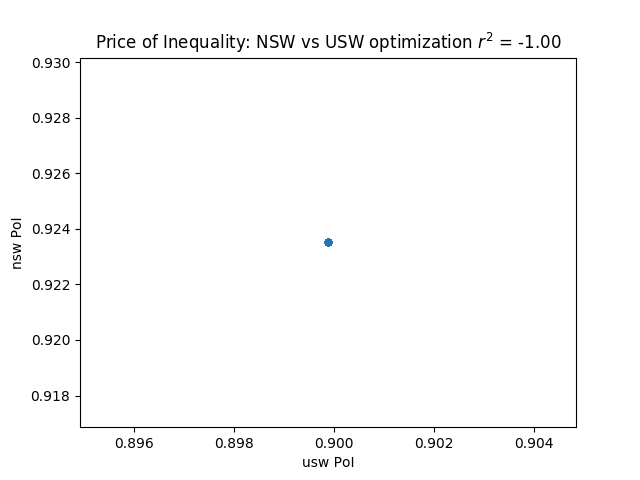
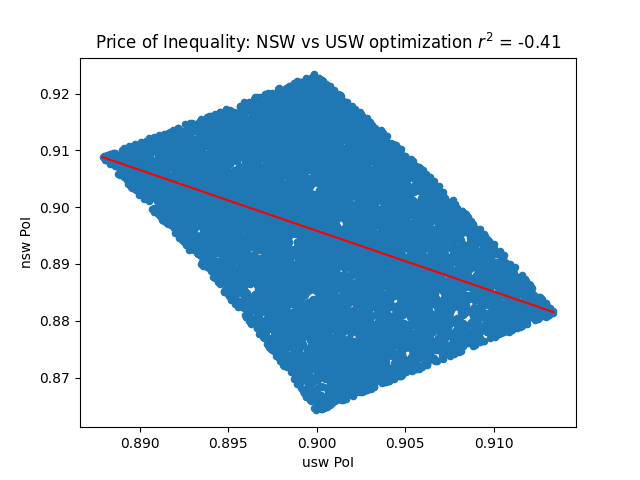
it's been too long since I used the repo

diff --git a/no-money/main.py b/no-money/main.py
@@ -11,123 +11,17 @@ from sklearn.preprocessing import normalize
 from tabulate import tabulate
 from random import uniform
 from scipy import stats
+import experiments
 
 
 def main():
 	np.set_printoptions(suppress=True)
 	#holder vars
-	player_dict = {}
-	data = {'inequality tolerance': [], 'utilities': [],\
-	'usw alloc u': [], 'usw alloc v': [], \
-	'nsw alloc u': [], 'nsw alloc v': [], \
-	'maxmin alloc u': [], 'maxmin alloc v': [], \
-	'usw u': [], 'usw v': [], \
-	'nsw u': [], 'nsw v': [], \
-	'maxmin u': [], 'maxmin v': [], \
-	'usw PoI' : [], 'nsw PoI' : [], 'maxmin PoI' : [],
-	'usw xstar FS inequality' : [], 'nsw xstar FS inequality' : [], 'maxmin xstar FS inequality' : [],
-	'usw xalpha FS inequality' : [], 'nsw xalpha FS inequality' : [], 'maxmin xalpha FS inequality' : []
-	}
-
-
-	num_reps = 100
-
-	#global vars
-	n = 3 #number of agents
-	g = 3 #number of goods
-	alpha = [0.2, 0.2, 0.2] #value for inequality tolerance.
-	util_type = 'linear'
-
-	for _ in range(num_reps):
-
-		data['inequality tolerance'].append(alpha)
-
-		# different variations of correlating preferences
-		#eps = 2. - np.sqrt(2)
-		#init_u = [[0.5, 0.5, 0.], [(1. -eps) / 2, (1. -eps) / 2, eps]]
-		#eps = 0.05
-		#init_u = list(normalize([[1., 1., uniform(0, eps)], [1 - eps + uniform(-eps, eps), 1. - eps + uniform(-eps, eps), 2. * eps + uniform(-eps, eps)]], axis=1, norm='l1'))
-		
-		# example studied in meeting
-		eps = 0.05
-		init_u = [[1. - eps, eps, 0.], [0.5 + eps, 0, 0.5 - eps], [0., 0.5, 0.5]]
-		
-
-		# uniformly random utilities
-		#init_u = list(normalize(np.random.rand(n,g), axis=1, norm='l1'))
-		data['utilities'].append([init_u])
-
-		#initialize players
-		for player in range(n):
-			player_dict[player] = players.Player(player, init_u[player], alpha[player], util_type, g, n, init_u) #random u_ij in [0,1] parameterizing the utility and c_i constant
-
-		# standard allocation setting
-		alloc = mechs.usw(player_dict, g)
-		data['usw alloc u'].append([alloc])
-		data['usw xstar FS inequality'].append(inequality.FehrSchmidtIneq(player_dict, alloc))
-		alloc_nsw = mechs.nsw_ceei(player_dict, g)
-		data['nsw alloc u'].append([alloc_nsw])
-		data['nsw xstar FS inequality'].append(inequality.FehrSchmidtIneq(player_dict, alloc_nsw))
-		alloc_maxmin = mechs.maxmin_u(player_dict, g)
-		data['maxmin alloc u'].append([alloc_maxmin])
-		data['maxmin xstar FS inequality'].append(inequality.FehrSchmidtIneq(player_dict, alloc_maxmin))
-
-		
-		# allocations with social preferences
-		v_alloc = mechs.usw_v(player_dict, g)
-		v_alloc_nsw = mechs.nsw_ceei_v(player_dict, g)
-		v_alloc_maxmin = mechs.maxmin_v(player_dict, g)
-		data['usw alloc v'].append([v_alloc])
-		data['usw xalpha FS inequality'].append(inequality.FehrSchmidtIneq(player_dict, v_alloc))
-		data['nsw alloc v'].append([v_alloc_nsw])
-		data['nsw xalpha FS inequality'].append(inequality.FehrSchmidtIneq(player_dict, v_alloc_nsw))
-		data['maxmin alloc v'].append([v_alloc_maxmin])
-		data['maxmin xalpha FS inequality'].append(inequality.FehrSchmidtIneq(player_dict, v_alloc_maxmin))
-		
-
-	    #compute social welfare and price of inequality
-		usw_u = utils.utilitariansocialwelfare(player_dict, alloc)
-		nsw_u = utils.nashsocialwelfare(player_dict, alloc_nsw)
-		maxminsw_u = utils.rawlsiansocialwelfare(player_dict, alloc_maxmin)
-		data['usw u'].append(usw_u)
-		data['nsw u'].append(nsw_u)
-		data['maxmin u'].append(maxminsw_u)
-
-		usw_v = utils.utilitariansocialwelfare(player_dict, v_alloc)
-		nsw_v = utils.nashsocialwelfare(player_dict, v_alloc_nsw)
-		maxminsw_v = utils.rawlsiansocialwelfare(player_dict, v_alloc_maxmin)
-		data['usw v'].append(usw_v)
-		data['nsw v'].append(nsw_v)
-		data['maxmin v'].append(maxminsw_v)
-
-		data['usw PoI'].append(float(usw_v / usw_u))
-		data['nsw PoI'].append(float(nsw_v / nsw_u))
-		data['maxmin PoI'].append(float(maxminsw_v / maxminsw_u))
-
-
-	df = pd.DataFrame(data=data)
-
-
-	print(tabulate(df, headers = 'keys', tablefmt = 'psql'))
-
-	from os.path import exists
-	filename = 'simulation_results_demo.csv'
-	if exists(filename) == False:
-		df.to_csv(filename,index=False)
-	else:
-		df.to_csv(filename, mode='a', index=False, header=False)
-
-
-
-
-	slope, intercept, r_value, p_value, std_err = stats.linregress(df['usw PoI'], df['nsw PoI'])
-	utils.spPoI(df, 'usw PoI', 'nsw PoI', 'Price of Inequality: NSW vs USW optimization', 'figs/PoI_NSW_USW_corrprefs_3players_wr2.png', rsq=r_value, slope=slope, yint=intercept)
-	#utils.spPoI(df, 'usw PoI', 'maxmin PoI', 'Price of Inequality: Max-Min vs USW optimization', 'figs/PoI_maxmin_USW_uniformprefs_4players.png')
-	#utils.spPoI(df, 'nsw PoI', 'maxmin PoI', 'Price of Inequality: Max-Min vs NSW optimization', 'figs/PoI_maxmin_NSW_uniformprefs.png')
-
-	#utils.boxplot(df, ['usw PoI', 'nsw PoI', 'maxmin PoI'],plottitle='Price of Inequalities: Uniformly random Preferences', filename='figs/boxplot_PoIs_uniformprefs.png')
-
-
+	n = 10
+	g = n
+	#alphas = np.linspace(0,0.5, num=200)
+	alpha = 0.3
+	experiments.effect_prop_averse(n,g, alpha, save=False)
 
 
 if __name__ == "__main__":

diff --git a/no-money/mechs.py b/no-money/mechs.py
@@ -101,6 +101,19 @@ def usw_v(player_dict, num_goods):
 	return alloc.value
 
 
+def usw_v_cm(player_dict, num_goods): 
+	num_agents = len(list(player_dict.keys()))
+	alloc = cp.Variable((num_agents, num_goods))
+	c = np.min([player_dict[key].c for key in player_dict.keys()])
+	maxprob = cp.Maximize(cp.sum([player_dict[key].v_cp(alloc) for i, key in enumerate(list(player_dict.keys()))]))
+	constraints = [alloc >= 0] + [cp.sum(alloc[:, j]) <= 1 for j in range(num_goods)] #+ [inequality.total_gini(player_dict, alloc) <= c]
+	prob = cp.Problem(maxprob, constraints)
+	prob.solve()
+	#print('Dual variables')
+	#print([constraint.dual_value for constraint in constraints])
+	return alloc.value
+
+
 #maximizing Rawlsian social welfare.  maxmiizing the minimum utility
 def maxmin_u(player_dict, num_goods): 
 	num_agents = len(list(player_dict.keys()))

diff --git a/no-money/players.py b/no-money/players.py
@@ -20,6 +20,7 @@ class Player:
             self.u_i = u_i
             self.u = lambda x : np.dot(x, u_i)
             self.v_cp = lambda x : np.array(u_i) @ x[identifier] - ((self.c / (n - 1.)) * cp.sum([cp.abs(np.array(u_i) @ x[identifier] - np.array(U[k]) @ x[k]) for k in range(n)]))
+#            self.v_cp = lambda x : np.array(u_i) @ x[identifier] - ((self.c / (n - 1.)) * cp.sum([cp.abs(np.array(u_i) @ x[identifier] - np.array(U[k]) @ x[k]) for k in range(n)]))
             self.v_np = lambda x : np.dot(u_i, x[identifier]) - ((self.c / (n - 1.)) * np.sum([np.abs(np.dot(u_i, x[identifier]) - np.dot(U[k], x[k])) for k in range(n)]))
         else:
             self.u_cp = lambda x : np.sum([u * cp.log((x+1)) for u in u_i])
